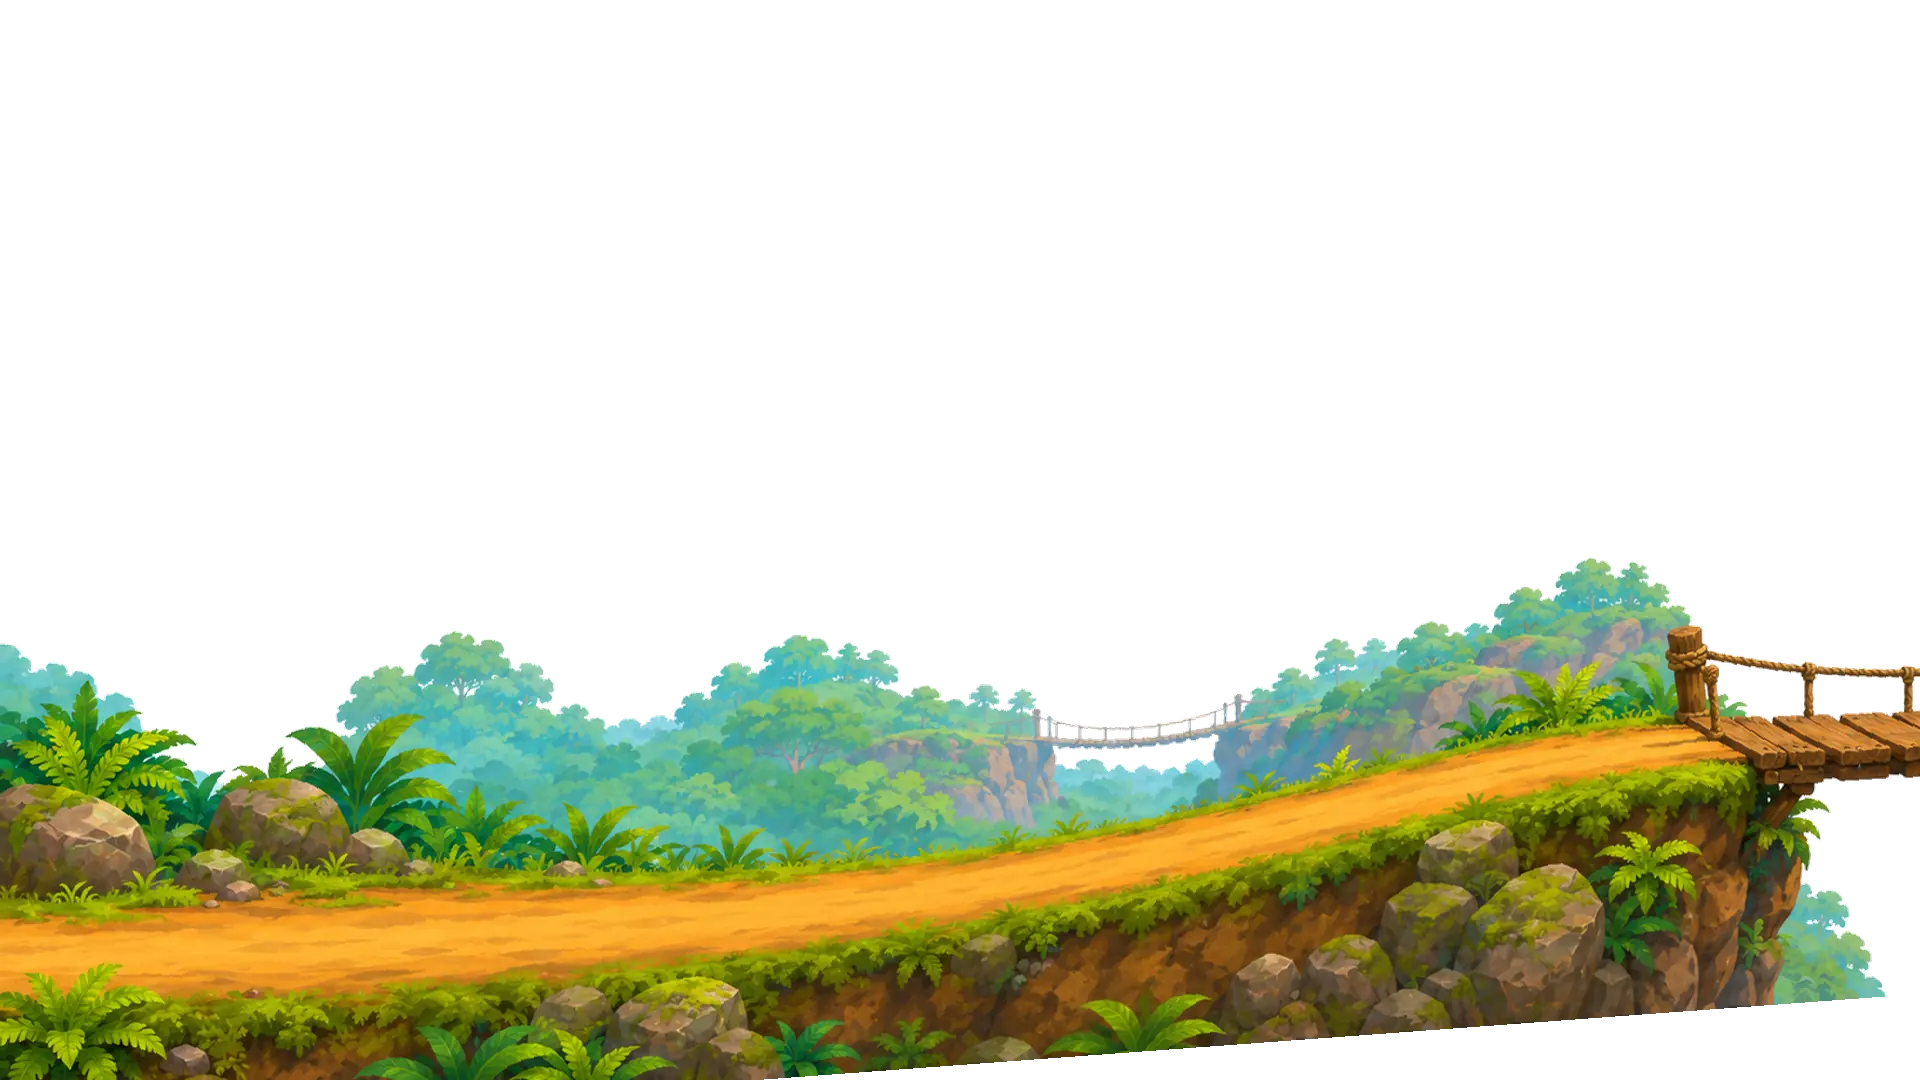
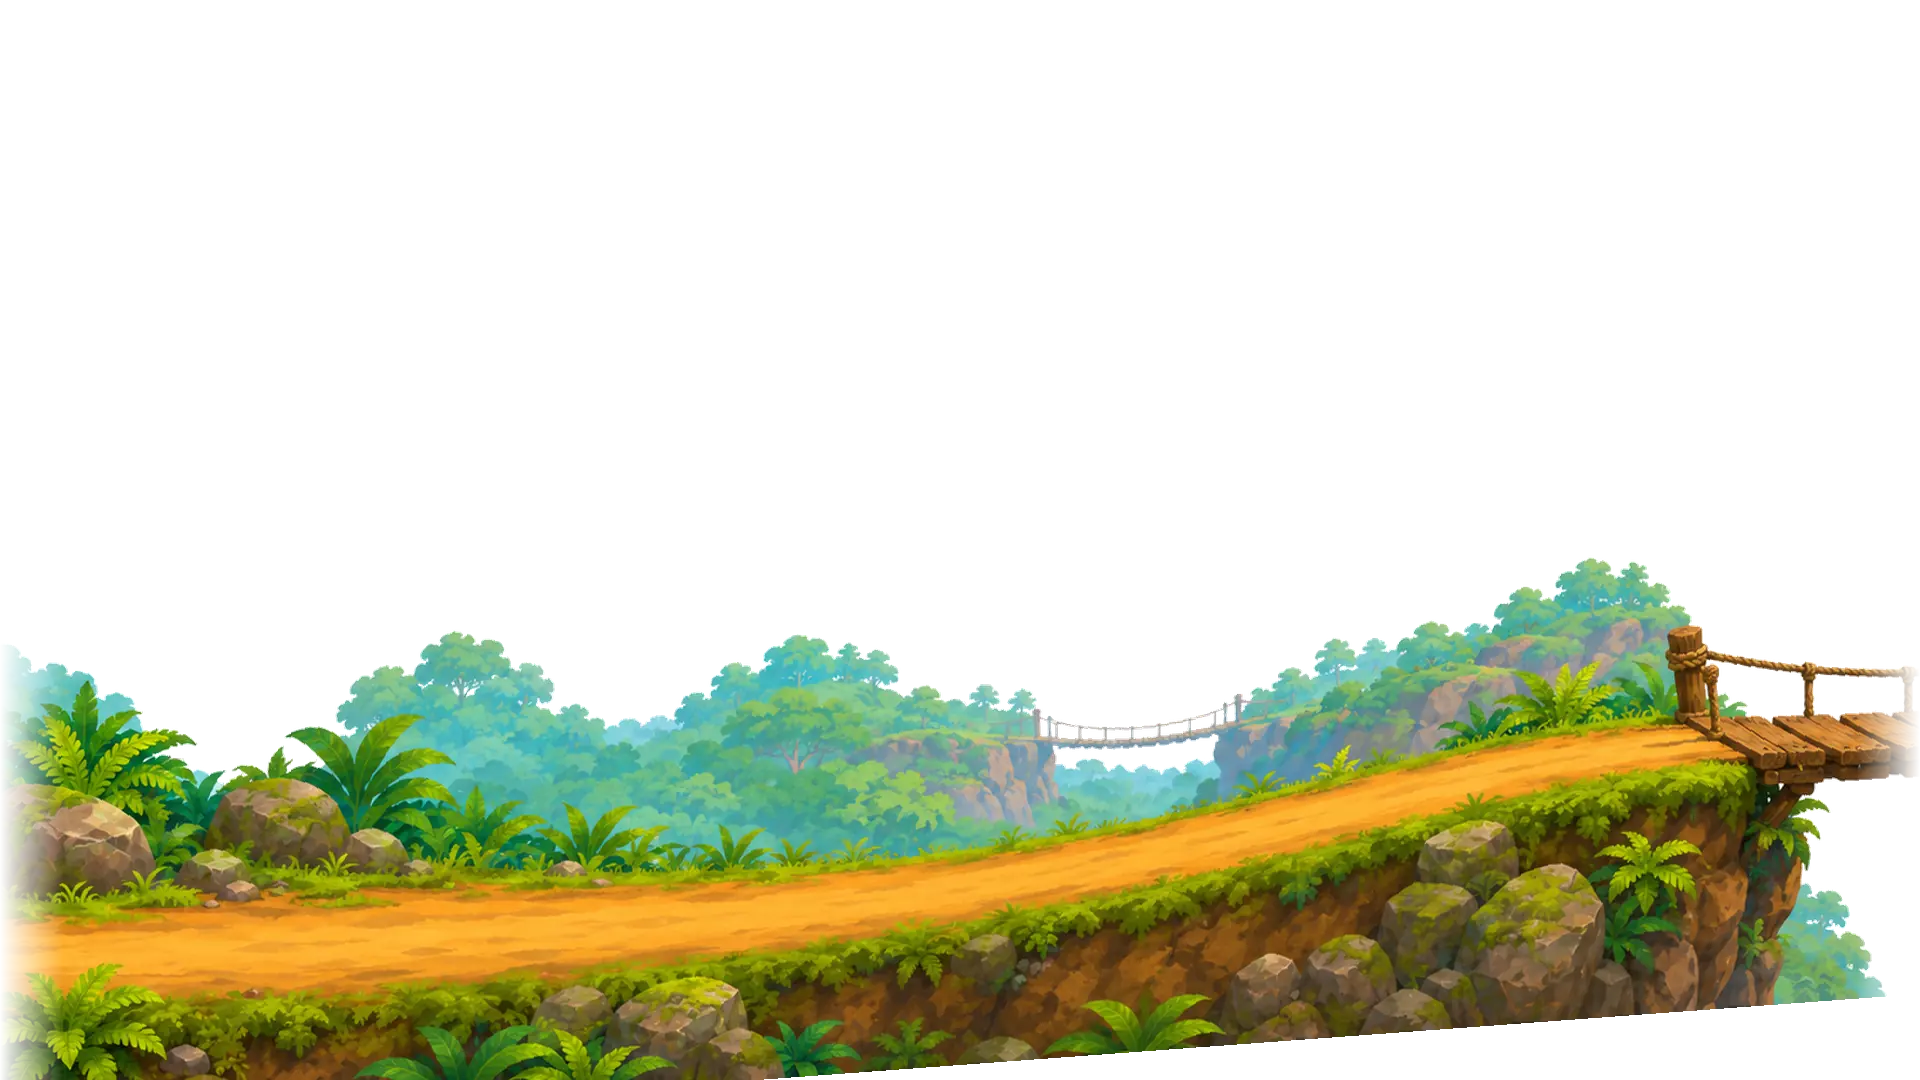
Fix the plate joins in the gorge: overlap, and drop the trunk
The transition looked wrong because the plates were butted. Each was drawn
self-contained with its own rim at both edges, so the approach's thin
rope-railed bridge stub was followed immediately by the span's 240px rim block
-- two different structures meeting -- and join_trunk was smeared across the
gap between them. A tree trunk was also the wrong cover object over a rocky
ravine rim, and stretched to 230u it read as a blur.

pxBuild() now takes per-join overlaps. Pulling each following plate left by its
neighbour's rim width (240 and 200, measured off the alpha) lands one plate's rim
ON the other's edge, which is what it is a drawing of. Where overlaps are given
the join trunks are dropped: an overlap that works needs no cover.

That exposed a second artefact -- each plate is cropped square, so an overlapped
plate's hard left edge landed mid-scene as a straight vertical line across open
sky. The build now fades 64 columns of alpha at each plate edge. The deck starts
well inside the fade on every plate, so nothing rideable is softened.

The rider's track is derived from the overlaps rather than assuming i*1920, and
where two plates cover the same world x the later one wins, since that is the one
drawn on top. Rear wheel still lands 0.2px off the deck.

Changed region(s): [[0.0, 0.5806, 0.0312, 1.0], [0.9688, 0.6111, 1.0, 0.7333]]

diff --git a/src/js/scenes.js b/src/js/scenes.js
@@ -17,8 +17,18 @@ const SEG=['act_bank','act_bridge','act_clearing'];
    interior, which has to travel slower than the deck so that what shows through the
    hole in the bridge slides more slowly than the hole does. That differential IS
    the depth effect; matched rates would look painted on. */
-function pxBuild(f0,segs,mid){
+function pxBuild(f0,segs,mid,laps){
  segs=segs||SEG;
+ /* `laps` OVERLAPS neighbouring plates instead of butting them, in design units.
+    The gorge plates were each drawn self-contained, with their own rim at both
+    edges -- so butted, the approach's thin bridge stub is followed by the span's
+    240px rim block and you see two different structures meet. Pulling the span
+    left by its rim width lands that rim ON the approach's edge, which is what it
+    is a drawing of. Where laps are given the join trunks are dropped: an overlap
+    that works needs no cover, and a tree was the wrong object over a rocky rim. */
+ laps=laps||[];
+ const lapAt=i=>laps.slice(0,i).reduce((a,b)=>a+b,0);
+ const lapAll=lapAt(segs.length);
  /* The camera is a FRACTION of total travel (0 = bank, .5 = bridge, 1 = clearing),
     never a pixel count. Every pixel is recomputed from the live frame width by
     layout(), so a resize cannot leave the layers and the riders disagreeing about
@@ -45,7 +55,7 @@ function pxBuild(f0,segs,mid){
  /* One trunk laid over each segment join. Both plates carry a full-height edge
     trunk, so where two segments butt you get two HALF trunks on a hard vertical
     edge plus a tonal step; one trunk spanning the join reads as scenery. */
- const joins=segs.slice(1).map(()=>{
+ const joins=laps.length?[]:segs.slice(1).map(()=>{
   const t=el('<div></div>');
   t.style.cssText='position:absolute;top:0;height:100%;background-size:100% 100%;'
    +'background-repeat:no-repeat;background-image:url('+A.join_trunk+')';
@@ -57,16 +67,18 @@ function pxBuild(f0,segs,mid){
 
  rig.layout=()=>{
   const Fw=Math.round(F.clientWidth);
-  rig.span=Fw*(segs.length-1);         /* total camera travel, in px */
+  const u=Fw/1920;
+  rig.span=Fw*(segs.length-1)-lapAll*u;   /* total camera travel, in px */
   rig.forEach(o=>{
    if(o.tile){
     o.el.style.width=(Fw*4)+'px';
     o.el.style.backgroundSize=(Fw*2)+'px 100%';
     if(o.strip)o.el.style.height=Math.round(Fw*o.strip/1920)+'px';
-   } else o.el.style.width=(Fw*(o.wide||segs.length))+'px';
+   } else o.el.style.width=(Fw*(o.wide||segs.length)-(o.wide?0:lapAll*u))+'px';
   });
   /* 1px wider than a frame so neighbours overlap rather than risk a hairline gap */
-  plates.forEach((g,i)=>{g.style.left=(i*Fw)+'px';g.style.width=(Fw+1)+'px'});
+  plates.forEach((g,i)=>{
+   g.style.left=Math.round(i*Fw-lapAt(i)*u)+'px';g.style.width=(Fw+1)+'px'});
   joins.forEach((t,i)=>{
    const tw=Math.round(Fw*230/1920);
    t.style.left=((i+1)*Fw-tw/2)+'px';t.style.width=tw+'px'});
@@ -75,6 +87,7 @@ function pxBuild(f0,segs,mid){
  rig.setF=f=>{rig.f=f;rig.forEach(o=>{
   o.el.style.transform='translateX('+Math.round(-f*rig.span*o.rate)+'px)'})};
  rig.layout();
+ window.__rig=rig;      /* test hook: step the camera by hand */
  return rig;
 }
 
@@ -416,22 +429,36 @@ function hook(){
    guessed waypoints. Same approach as the ramp. */
 function gorge(){
  clean();window.__scene='gorge';
- const rig=pxBuild(0,GORGE.seg,{key:'mid_gorge',rate:GORGE.midRate});
+ const rig=pxBuild(0,GORGE.seg,{key:'mid_gorge',rate:GORGE.midRate},GORGE.laps);
  const J=mkActor(RIDER,'cyc',1);J.w.dataset.name='jhumru';
  RELAY=()=>{rig.layout();J.layout()};
 
- const n=GORGE.seg.length;
- /* The plates concatenate into one track, so a world fraction indexes straight
-    into it. He sits at HOLD_X of the frame, so his own position runs ahead of the
-    camera by that much. */
+ const n=GORGE.seg.length,laps=GORGE.laps;
+ /* Everything below is in DESIGN units, so it is resolution-independent and the
+    overlaps only have to be reasoned about once.
+
+    The plates overlap, so a plate's world position is not i*1920 -- and the later
+    plate is drawn on top, so where two profiles cover the same world x the later
+    one is the surface he actually rides. Hence the track is built in order and
+    later points overwrite earlier ones. */
+ const lapTo=i=>laps.slice(0,i).reduce((a,b)=>a+b,0);
+ const worldW=1920*n-lapTo(n);
  const track=[];
- GORGE.prof.forEach((pr,i)=>pr.forEach((y,j)=>
-  track.push([(i+j/(pr.length-1))/n,y])));
- const worldAt=f=>(f*(n-1)+HOLD_X/100)/n;
+ GORGE.prof.forEach((pr,i)=>{
+  const left=i*1920-lapTo(i);
+  pr.forEach((y,j)=>{
+   const f=(left+j*1920/(pr.length-1))/worldW;
+   while(track.length&&track[track.length-1][0]>=f-1e-9)track.pop();
+   track.push([f,y]);
+  });
+ });
+ const travel=1920*(n-1)-lapTo(n);
+ const worldAt=f=>(f*travel+HOLD_X/100*1920)/worldW;
  const yOf=f=>yAt(track,worldAt(f));
- /* Stop with the gap ahead of him rather than under him: back off GORGE.margin of
-    a plate from the measured near edge. */
- const stopF=Math.min(1,(GORGE.gap*n-HOLD_X/100-0.14)/(n-1));
+ /* The gap's near edge in world units, then backed off so it sits AHEAD of him
+    rather than under him. Both come off the measured alpha, not the delivered spec. */
+ const gapW=(1920-laps[0]+GORGE.gapPx[0])/worldW;
+ const stopF=Math.min(1,(gapW*worldW-HOLD_X/100*1920-250)/travel);
 
  J.place(-12,yOf(0));
  let armed=1;

diff --git a/src/js/levels.js b/src/js/levels.js
@@ -44,6 +44,12 @@ const PORTRAIT={
 const GORGE={
  seg:['g_near','g_span','g_far'],
  midRate:0.62,
+ /* Overlap per join, in design units. Each plate was drawn self-contained with its
+    own rim at both edges, so butted they stack two structures. Measured off the
+    alpha: the span's left rim block runs x0-240 and its right rim x1720-1920, so
+    pulling each following plate left by that much lands one plate's rim on the
+    other's edge instead of beside it. */
+ laps:[240,200],
  gap:0.4790,        /* the gap's near edge, as a fraction of the whole world */
  gapPx:[839,1071],      /* measured off the alpha: 233px, not the 192 in their spec */
  deck:65.28,

diff --git a/tools/build-assets.py b/tools/build-assets.py
@@ -444,6 +444,7 @@ def build_portraits():
 
 GORGE_SRC = 'assets/bg/gorge-src/png'
 GORGE_ACT = ['act_gorge_near', 'act_gorge_span', 'act_gorge_far']
+GORGE_EDGE = 64      # columns of alpha fade at each plate's left and right edge
 
 
 def ride_top(a, x, run=14, need=10, y_from=280):
@@ -488,6 +489,19 @@ def build_gorge():
         if not p_in.exists():
             print('skip (missing)', name); continue
         im = Image.open(p_in).convert('RGBA')
+        if name in GORGE_ACT:
+            # Each plate is cropped square at its own edges, and the runtime now
+            # OVERLAPS them, so a plate's hard left edge lands in the middle of its
+            # neighbour's art -- where a rim block ending in a straight vertical line
+            # across open sky is the most obvious thing on screen. Fading the outer
+            # columns lets one plate settle into the other. The deck starts well
+            # inside the fade on every plate, so nothing rideable is softened.
+            a = np.array(im).astype(float)
+            for i in range(GORGE_EDGE):
+                k = (i + 1) / GORGE_EDGE
+                a[:, i, 3] *= k
+                a[:, -1 - i, 3] *= k
+            im = Image.fromarray(a.clip(0, 255).astype(np.uint8), 'RGBA')
         dst = BG / f'{name}.webp'
         im.save(dst, 'WEBP', quality=76, method=6)
         print('gorge', f'{name:16s}', im.size, f'{dst.stat().st_size / 1024:.0f}KB')
